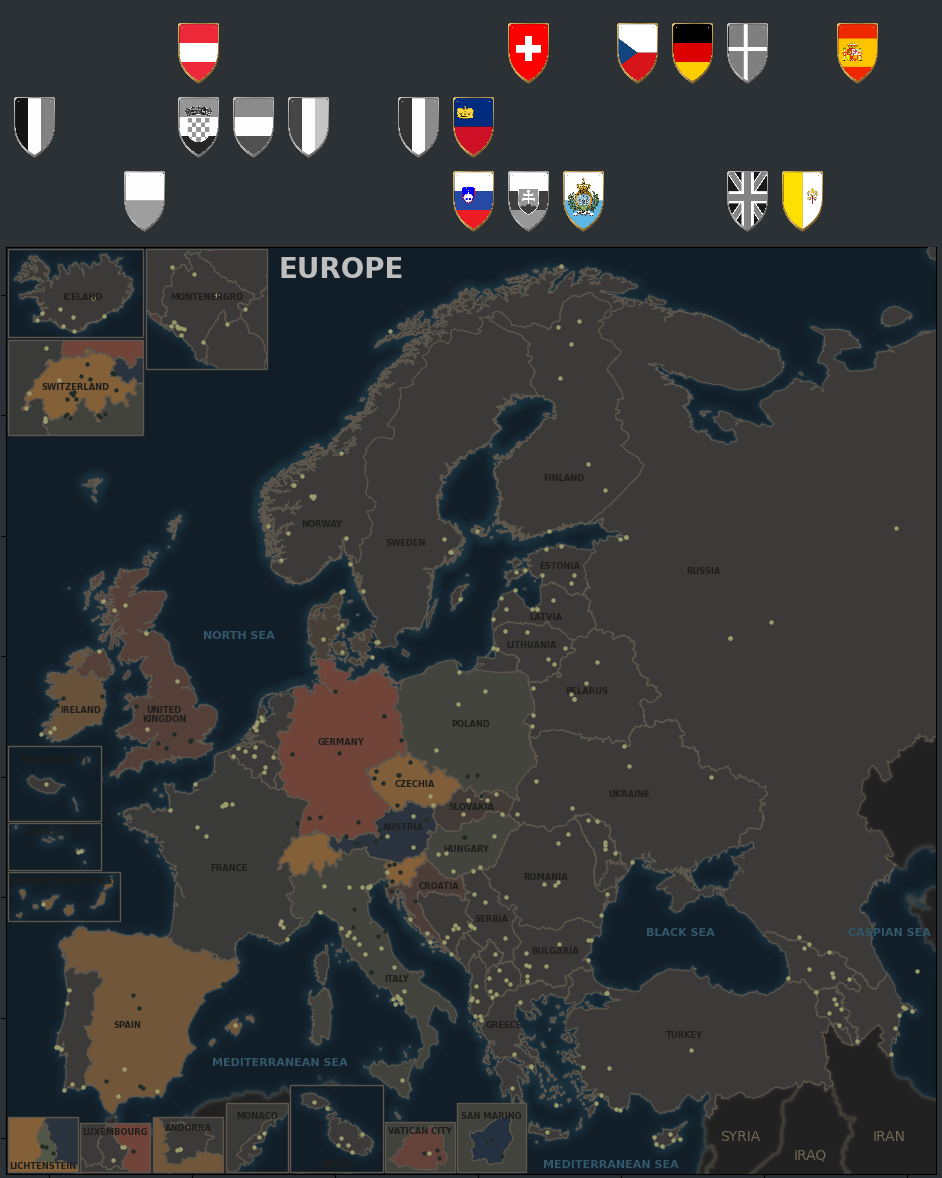
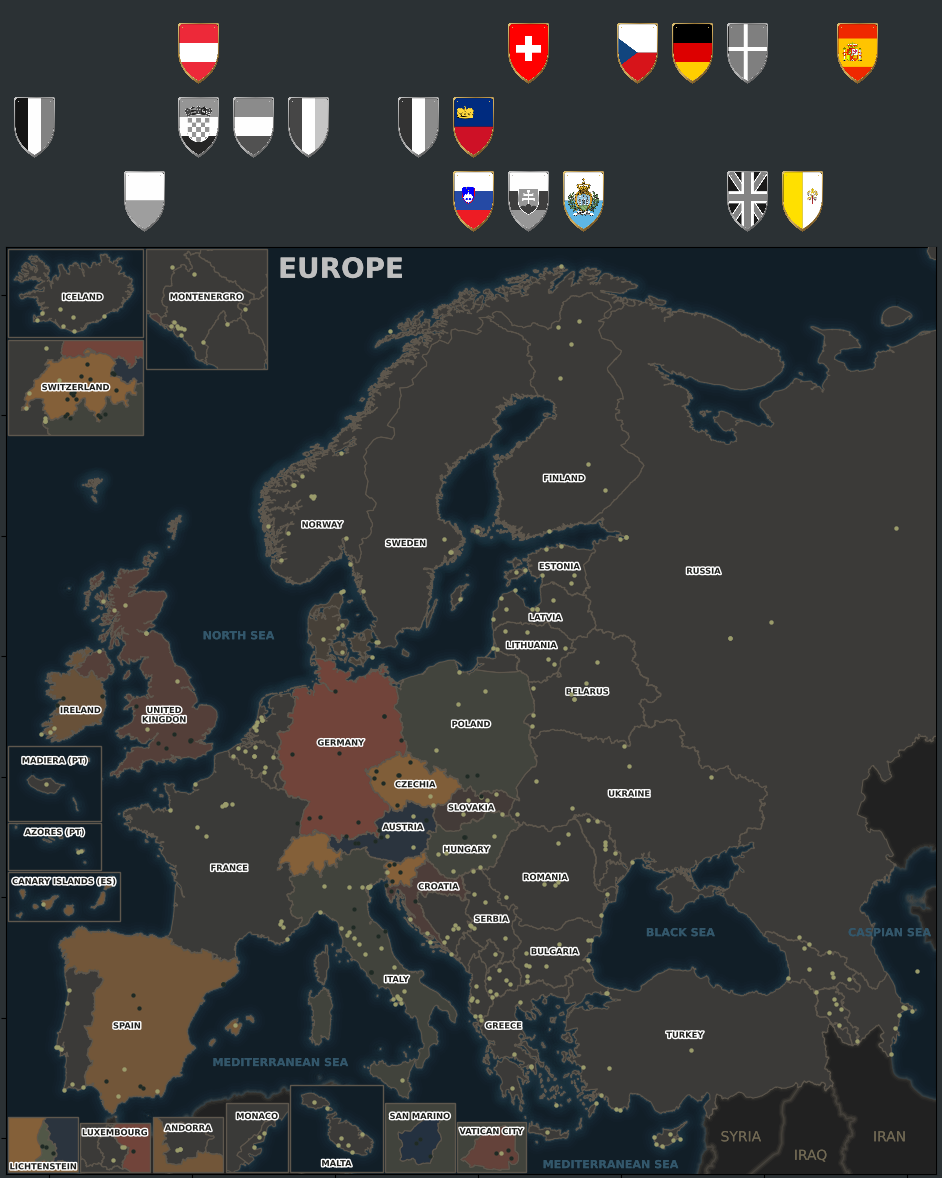
add outlines to the labels

diff --git a/plotting/plotting_manager.py b/plotting/plotting_manager.py
@@ -86,7 +86,6 @@ class PlotManager:
             )
         else:
             self._plot_points(ax, current_date, points=points_main, zorder=60)
-
         self._plot_points(ax, current_date, points=points_main, zorder=60, a_type="clear")
         self._plot_flags(ax)
         self._finalize_and_save_plot(fig, ax, current_date)
@@ -106,6 +105,12 @@ class PlotManager:
 
         for text in self.text:
 
+            if "outline" in text:
+                pass
+            else:
+                text["outline"] = 0
+                text["outline_c"] = "black"
+
             ax.text(
                 text["x"],                     # x position in axes coords
                 text["y"],                     # y position in axes coords
@@ -118,7 +123,8 @@ class PlotManager:
                 ha="center",
                 va="center",
                 zorder=zorder,
-                alpha=1
+                alpha=1,
+                path_effects=[pe.withStroke(linewidth=text["outline"], foreground=text["outline_c"])]
             )
 
     def _plot_background(self, ax, zorder):
@@ -286,6 +292,12 @@ class PlotManager:
             ax_inset.set_xticks([])
             ax_inset.set_yticks([])
 
+            if "outline" in expansion:
+                pass
+            else:
+                expansion["outline"] = 0
+                expansion["outline_c"] = "black"
+
             ax_inset.text(
                 expansion["x"],
                 expansion["y"],
@@ -297,7 +309,8 @@ class PlotManager:
                 fontweight=self.expansion_props["Text"].get("weight", 600),
                 ha=self.expansion_props["Text"].get("ha", "center"),
                 va=self.expansion_props["Text"].get("va", "center"),
-                zorder=zorder+2
+                zorder=zorder+2,
+                path_effects=[pe.withStroke(linewidth=expansion["outline"], foreground=expansion["outline_c"])]
             )
 
     def _plot_points(self, ax, current_date, points, zorder, a_type="normal"):
